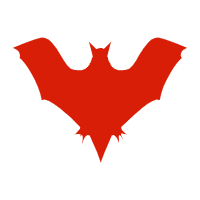
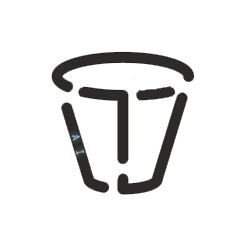
修改了图标、修改了app图标

Changed region(s): [[0.06, 0.18, 0.93, 0.81]]

diff --git a/lib/pages/homePage/morePages/teachPage.dart b/lib/pages/homePage/morePages/teachPage.dart
@@ -157,6 +157,8 @@ class _QuestionPageState extends State<QuestionPage> {
                           onPressed: () {
                             if (questions[_currentQues].ans == 1) {
                               BotToast.showText(text: "答案正确！");
+                              _currentQues++;
+                              setState(() {});
                             } else {
                               BotToast.showText(text: "答案错误！");
                             }
@@ -197,6 +199,8 @@ class _QuestionPageState extends State<QuestionPage> {
                           onPressed: () {
                             if (questions[_currentQues].ans == 2) {
                               BotToast.showText(text: "答案正确！");
+                              _currentQues++;
+                              setState(() {});
                             } else {
                               BotToast.showText(text: "答案错误！");
                             }
@@ -238,6 +242,8 @@ class _QuestionPageState extends State<QuestionPage> {
                           onPressed: () {
                             if (questions[_currentQues].ans == 3) {
                               BotToast.showText(text: "答案正确！");
+                              _currentQues++;
+                              setState(() {});
                             } else {
                               BotToast.showText(text: "答案错误！");
                             }
@@ -278,6 +284,8 @@ class _QuestionPageState extends State<QuestionPage> {
                           onPressed: () {
                             if (questions[_currentQues].ans == 4) {
                               BotToast.showText(text: "答案正确！");
+                              _currentQues++;
+                              setState(() {});
                             } else {
                               BotToast.showText(text: "答案错误！");
                             }

diff --git a/lib/components/tab.dart b/lib/components/tab.dart
@@ -41,19 +41,46 @@ class _TabWidgetState extends State<TabWidget> {
         iconSize: 22,
         items: [
           BottomNavigationBarItem(
-            icon: Icon(Icons.home),
-            activeIcon: Icon(Icons.home),
-            title: Text('主页'),
+            icon: Icon(
+              IconData(0xe703, fontFamily: "AntIcons"),
+              color: Colors.black,
+            ),
+            activeIcon: Icon(
+              IconData(0xe703, fontFamily: "AntIcons"),
+              color: Colors.blue,
+            ),
+            title: Text(
+              '主页',
+              style: TextStyle(fontFamily: "NotoSerifSC"),
+            ),
           ),
           BottomNavigationBarItem(
-            icon: Icon(Icons.library_books),
-            activeIcon: Icon(Icons.library_books),
-            title: Text('使用教程'),
+            icon: Icon(
+              IconData(0xe6f3, fontFamily: "AntIcons"),
+              color: Colors.black,
+            ),
+            activeIcon: Icon(
+              IconData(0xe6f3, fontFamily: "AntIcons"),
+              color: Colors.blue,
+            ),
+            title: Text(
+              '使用教程',
+              style: TextStyle(fontFamily: "NotoSerifSC"),
+            ),
           ),
           BottomNavigationBarItem(
-            icon: Icon(Icons.person),
-            activeIcon: Icon(Icons.person),
-            title: Text('我的'),
+            icon: Icon(
+              IconData(0xe70e, fontFamily: "AntIcons"),
+              color: Colors.black,
+            ),
+            activeIcon: Icon(
+              IconData(0xe70e, fontFamily: "AntIcons"),
+              color: Colors.blue,
+            ),
+            title: Text(
+              '我的',
+              style: TextStyle(fontFamily: "NotoSerifSC"),
+            ),
           ),
         ],
         currentIndex: _currentIndex,

diff --git a/lib/pages/loginPage/sign_up_page.dart b/lib/pages/loginPage/sign_up_page.dart
@@ -81,7 +81,7 @@ class _SignUpPageState extends State<SignUpPage> {
             child: new TextFormField(
               decoration: new InputDecoration(
                   icon: new Icon(
-                    Icons.email,
+                    IconData(0xe63c, fontFamily: "AntIcons"),
                     color: Colors.black,
                   ),
                   hintText: "Email Address",
@@ -103,7 +103,7 @@ class _SignUpPageState extends State<SignUpPage> {
             child: new TextFormField(
               decoration: new InputDecoration(
                 icon: new Icon(
-                  Icons.lock,
+                  IconData(0xe624, fontFamily: "AntIcons"),
                   color: Colors.black,
                 ),
                 hintText: "Password",
@@ -133,7 +133,7 @@ class _SignUpPageState extends State<SignUpPage> {
             child: new TextFormField(
               decoration: new InputDecoration(
                 icon: new Icon(
-                  Icons.lock,
+                  IconData(0xe624, fontFamily: "AntIcons"),
                   color: Colors.black,
                 ),
                 hintText: "Confirm Passowrd",

diff --git a/lib/pages/myPage/main_menu.dart b/lib/pages/myPage/main_menu.dart
@@ -11,7 +11,8 @@ class MainMenu extends StatelessWidget {
       child: new ListView(
         padding: const EdgeInsets.only(left: 5.0),
         children: <Widget>[
-          _buildListItem("GitHub", Icons.web, () {
+          _buildListItem("GitHub", IconData(0xe677, fontFamily: "AntIcons"),
+              () {
             Navigator.of(context).push(new MaterialPageRoute(builder: (_) {
               return new Browser(
                 url: "https://github.com/Liar-zzy/Intelli_Bin_Flutter",
@@ -19,7 +20,7 @@ class MainMenu extends StatelessWidget {
               );
             }));
           }),
-          _buildListItem("关于我", Icons.markunread, () {
+          _buildListItem("关于我", IconData(0xe63c, fontFamily: "AntIcons"), () {
             showDialog(
               context: context,
               barrierDismissible: false,

diff --git a/lib/pages/loginPage/sign_in_page.dart b/lib/pages/loginPage/sign_in_page.dart
@@ -73,7 +73,7 @@ class _SignInPageState extends State<SignInPage> {
 
                   decoration: new InputDecoration(
                       icon: new Icon(
-                        Icons.email,
+                        IconData(0xe63c, fontFamily: "AntIcons"),
                         color: Colors.black,
                       ),
                       hintText: "Email Address",
@@ -101,7 +101,7 @@ class _SignInPageState extends State<SignInPage> {
                   focusNode: passwordFocusNode,
                   decoration: new InputDecoration(
                       icon: new Icon(
-                        Icons.lock,
+                        IconData(0xe624, fontFamily: "AntIcons"),
                         color: Colors.black,
                       ),
                       hintText: "Password",

diff --git a/lib/pages/homePage/homePage.dart b/lib/pages/homePage/homePage.dart
@@ -26,7 +26,10 @@ class _HomePageState extends State<HomePage> {
             ),
           ),
         ),
-        leading: Icon(Icons.search),
+        leading: Icon(
+          IconData(0xe741, fontFamily: "AntIcons"),
+          color: Colors.white,
+        ),
         centerTitle: true,
         title: new Container(
           //标题搜索框
